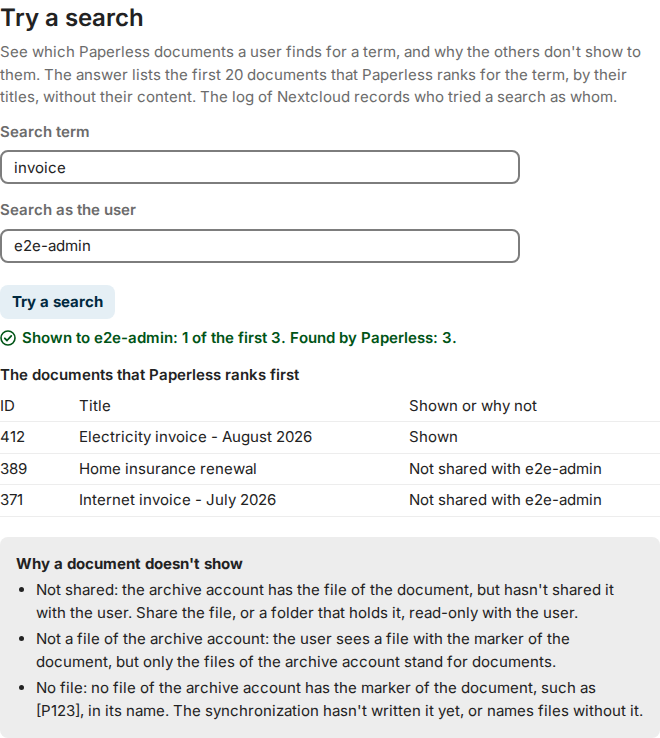
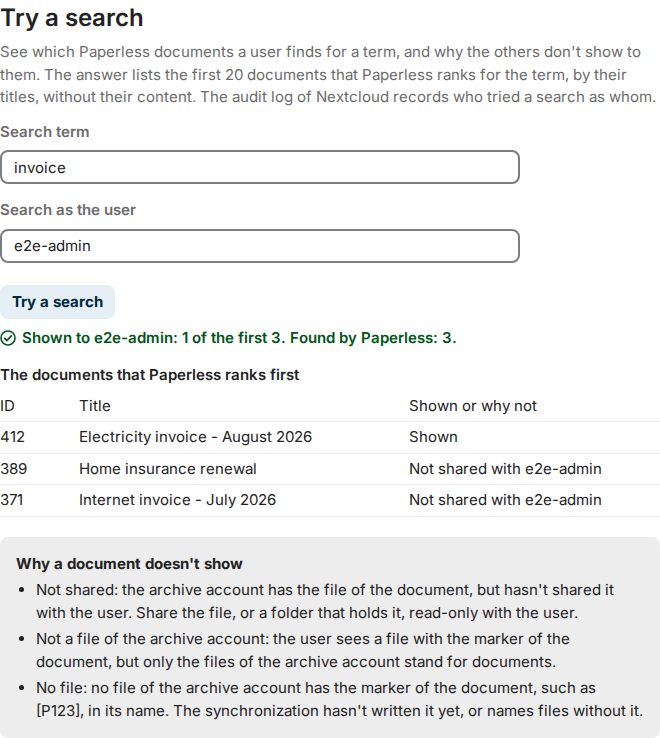
fix(settings): record Try a search in the audit log and finish its docs
The entry at level info is missing on a default installation (log level 2),
so the controller also dispatches CriticalActionPerformedEvent, which the app
admin_audit writes to the audit log whatever the log level. The hint, the
changelog fragment, README, security.md and architecture.md now say so.

Also: the roadmap no longer lists Try a search as planned, the e2e README and
the summary of run.sh describe its checks, and the screenshot has a dark version.

Changed region(s): [[0.3333, 0.1247, 1.0, 0.1558]]

diff --git a/l10n/de_DE.js b/l10n/de_DE.js
@@ -95,7 +95,7 @@ OC.L10N.register(
 		'No archive account exists, so the search shows no Paperless documents. Name the account that owns the synchronized files above.': 'Es gibt kein Archiv-Konto, daher zeigt die Suche keine Paperless-Dokumente. Geben Sie oben das Konto an, dem die synchronisierten Dateien gehören.',
 		'Paperless can\'t read this term in its advanced syntax, such as a range of dates that isn\'t complete like created:[2026 to. Correct the term and try again.': 'Paperless kann diesen Begriff in seiner erweiterten Syntax nicht lesen, etwa einen unvollständigen Datumsbereich wie created:[2026 to. Korrigieren Sie den Begriff und versuchen Sie es noch einmal.',
 		'Try a search': 'Suche ausprobieren',
-		'See which Paperless documents a user finds for a term, and why the others don\'t show to them. The answer lists the first %s documents that Paperless ranks for the term, by their titles, without their content. The log of Nextcloud records who tried a search as whom.': 'Sehen Sie nach, welche Paperless-Dokumente ein Benutzer zu einem Begriff findet und warum ihm die anderen nicht angezeigt werden. Die Antwort nennt die ersten %s Dokumente, die Paperless für den Begriff einordnet, mit ihren Titeln und ohne ihren Inhalt. Das Protokoll von Nextcloud hält fest, welcher Administrator als welcher Benutzer gesucht hat.',
+		'See which Paperless documents a user finds for a term, and why the others don\'t show to them. The answer lists the first %s documents that Paperless ranks for the term, by their titles, without their content. The audit log of Nextcloud records who tried a search as whom.': 'Sehen Sie nach, welche Paperless-Dokumente ein Benutzer zu einem Begriff findet und warum ihm die anderen nicht angezeigt werden. Die Antwort nennt die ersten %s Dokumente, die Paperless für den Begriff einordnet, mit ihren Titeln und ohne ihren Inhalt. Das Audit-Protokoll von Nextcloud hält fest, welcher Administrator als welcher Benutzer gesucht hat.',
 		'Search term': 'Suchbegriff',
 		'Search as the user': 'Suchen als Benutzer',
 		'User ID': 'Benutzer-ID',

diff --git a/l10n/de.js b/l10n/de.js
@@ -95,7 +95,7 @@ OC.L10N.register(
 		'No archive account exists, so the search shows no Paperless documents. Name the account that owns the synchronized files above.': 'Es gibt kein Archiv-Konto, daher zeigt die Suche keine Paperless-Dokumente. Gib oben das Konto an, dem die synchronisierten Dateien gehören.',
 		'Paperless can\'t read this term in its advanced syntax, such as a range of dates that isn\'t complete like created:[2026 to. Correct the term and try again.': 'Paperless kann diesen Begriff in seiner erweiterten Syntax nicht lesen, etwa einen unvollständigen Datumsbereich wie created:[2026 to. Korrigiere den Begriff und versuche es noch einmal.',
 		'Try a search': 'Suche ausprobieren',
-		'See which Paperless documents a user finds for a term, and why the others don\'t show to them. The answer lists the first %s documents that Paperless ranks for the term, by their titles, without their content. The log of Nextcloud records who tried a search as whom.': 'Sieh nach, welche Paperless-Dokumente ein Benutzer zu einem Begriff findet und warum ihm die anderen nicht angezeigt werden. Die Antwort nennt die ersten %s Dokumente, die Paperless für den Begriff einordnet, mit ihren Titeln und ohne ihren Inhalt. Das Protokoll von Nextcloud hält fest, welcher Administrator als welcher Benutzer gesucht hat.',
+		'See which Paperless documents a user finds for a term, and why the others don\'t show to them. The answer lists the first %s documents that Paperless ranks for the term, by their titles, without their content. The audit log of Nextcloud records who tried a search as whom.': 'Sieh nach, welche Paperless-Dokumente ein Benutzer zu einem Begriff findet und warum ihm die anderen nicht angezeigt werden. Die Antwort nennt die ersten %s Dokumente, die Paperless für den Begriff einordnet, mit ihren Titeln und ohne ihren Inhalt. Das Audit-Protokoll von Nextcloud hält fest, welcher Administrator als welcher Benutzer gesucht hat.',
 		'Search term': 'Suchbegriff',
 		'Search as the user': 'Suchen als Benutzer',
 		'User ID': 'Benutzer-ID',

diff --git a/tests/Unit/Controller/TrySearchTest.php b/tests/Unit/Controller/TrySearchTest.php
@@ -18,11 +18,13 @@ use OCA\PaperlessUnifiedSearch\Tests\Unit\AppServices;
 use OCA\PaperlessUnifiedSearch\Tests\Unit\Files;
 use OCP\AppFramework\Http;
 use OCP\AppFramework\Http\JSONResponse;
+use OCP\EventDispatcher\IEventDispatcher;
 use OCP\Files\File;
 use OCP\Http\Client\IResponse;
 use OCP\IL10N;
 use OCP\IRequest;
 use OCP\IUserSession;
+use OCP\Log\Audit\CriticalActionPerformedEvent;
 use PHPUnit\Framework\Attributes\DataProvider;
 use PHPUnit\Framework\TestCase;
 use Psr\Log\LoggerInterface;
@@ -50,6 +52,9 @@ final class TrySearchTest extends TestCase {
 		['id' => 371, 'title' => 'Internet invoice'] + self::CONTENT,
 		['id' => 360, 'title' => ' Letter '] + self::CONTENT,
 	];
+
+	/** The event dispatcher of the controller, a stub unless a test expects an event. */
+	private ?IEventDispatcher $events = null;
 
 	protected function setUp(): void {
 		$this->connected();
@@ -136,6 +141,30 @@ final class TrySearchTest extends TestCase {
 			->with('{admin} tried a search of Paperless as {user} in the settings', ['app' => AppConstants::APP_ID, 'admin' => 'alex', 'user' => 'jamie']);
 
 		$this->controller($this->documents(self::HITS, 12), $logger)->trySearch('invoice', 'JAMIE');
+	}
+
+	/**
+	 * The app admin_audit writes the event to the audit log whatever the log level, where
+	 * the entry at level info is missing on a default installation.
+	 */
+	public function testTellsTheAuditLogWhoTriedASearchAsWhomWithoutTheTerm(): void {
+		$events = $this->createMock(IEventDispatcher::class);
+		$events->expects(self::once())
+			->method('dispatchTyped')
+			->with(self::callback(static fn (CriticalActionPerformedEvent $event): bool => $event->getLogMessage() === 'Paperless Unified Search: %s tried a search as %s'
+				&& $event->getParameters() === ['admin' => 'alex', 'user' => 'jamie']
+				&& !$event->getObfuscateParameters()));
+		$this->events = $events;
+
+		$this->controller($this->documents(self::HITS, 12))->trySearch('invoice', 'JAMIE');
+	}
+
+	public function testTellsTheAuditLogNothingOfARefusedTry(): void {
+		$events = $this->createMock(IEventDispatcher::class);
+		$events->expects(self::never())->method('dispatchTyped');
+		$this->events = $events;
+
+		$this->controller($this->documents(self::HITS, 12))->trySearch('invoice', 'nobody');
 	}
 
 	public function testLogsAnAdministratorWithoutASession(): void {
@@ -255,6 +284,7 @@ final class TrySearchTest extends TestCase {
 			new SearchExplainer($locator, $accounts),
 			$accounts,
 			$session,
+			$this->events ?? $this->createStub(IEventDispatcher::class),
 		);
 	}
 

diff --git a/lib/Controller/SettingsController.php b/lib/Controller/SettingsController.php
@@ -24,10 +24,12 @@ use OCP\AppFramework\Http;
 use OCP\AppFramework\Http\Attribute\FrontpageRoute;
 use OCP\AppFramework\Http\Attribute\PasswordConfirmationRequired;
 use OCP\AppFramework\Http\JSONResponse;
+use OCP\EventDispatcher\IEventDispatcher;
 use OCP\IL10N;
 use OCP\IRequest;
 use OCP\IUserManager;
 use OCP\IUserSession;
+use OCP\Log\Audit\CriticalActionPerformedEvent;
 use Psr\Log\LoggerInterface;
 use SensitiveParameter;
 use Throwable;
@@ -63,6 +65,7 @@ final class SettingsController extends Controller {
 		private SearchExplainer $explainer,
 		private IUserManager $userManager,
 		private IUserSession $userSession,
+		private IEventDispatcher $events,
 	) {
 		parent::__construct($appName, $request);
 	}
@@ -137,7 +140,7 @@ final class SettingsController extends Controller {
 	 * whether it shows to the user and, if not, why, as occ paperless_unified_search:search
 	 * --explain finds it, for administrators without a shell. The answer names each
 	 * document by its ID and its title alone, without its content, an excerpt or its file,
-	 * and the log records which administrator tried a search as whom, without the term.
+	 * and the log and the audit log record which administrator tried a search as whom, without the term.
 	 */
 	#[FrontpageRoute(verb: 'POST', url: '/settings/try')]
 	public function trySearch(string $term = '', string $user = ''): JSONResponse {
@@ -161,11 +164,17 @@ final class SettingsController extends Controller {
 			return $this->refusal($this->l10n->t('No archive account exists, so the search shows no Paperless documents. Name the account that owns the synchronized files above.'), 'no_archive_account');
 		}
 
+		$admin = $this->userSession->getUser()?->getUID() ?? '';
 		$this->logger->info('{admin} tried a search of Paperless as {user} in the settings', [
 			'app' => AppConstants::APP_ID,
-			'admin' => $this->userSession->getUser()?->getUID() ?? '',
+			'admin' => $admin,
 			'user' => $account->getUID(),
 		]);
+		// The audit log of the app admin_audit records it whatever the log level.
+		$this->events->dispatchTyped(new CriticalActionPerformedEvent(
+			'Paperless Unified Search: %s tried a search as %s',
+			['admin' => $admin, 'user' => $account->getUID()],
+		));
 		try {
 			$response = $this->paperlessApi->searchDocuments($term, 1, self::TRY_LIMIT);
 		} catch (PaperlessQueryRejected) {

diff --git a/tests/Unit/Templates/SettingsTemplateTest.php b/tests/Unit/Templates/SettingsTemplateTest.php
@@ -130,7 +130,7 @@ final class SettingsTemplateTest extends TestCase {
 
 	/**
 	 * Try a search sits at the end of the page, with its route, a field for the term and
-	 * one for the user, and says that the log records who tried a search as whom.
+	 * one for the user, and says that the audit log records who tried a search as whom.
 	 */
 	public function testTrySearchAsksForATermAndAUser(): void {
 		[, $page] = $this->render(new PublicConfig(self::STORED, true, false));
@@ -142,7 +142,7 @@ final class SettingsTemplateTest extends TestCase {
 			self::assertTrue($input->hasAttribute('required'), "The {$field} of Try a search is not required.");
 		}
 		self::assertStringContainsString('The answer lists the first 20 documents', $this->text($this->element($page, 'paperless-unified-search-try-hint')));
-		self::assertStringContainsString('The log of Nextcloud records who tried a search as whom.', $this->text($this->element($page, 'paperless-unified-search-try-hint')));
+		self::assertStringContainsString('The audit log of Nextcloud records who tried a search as whom.', $this->text($this->element($page, 'paperless-unified-search-try-hint')));
 		self::assertSame('', $this->text($this->element($page, 'paperless-unified-search-try-result')));
 		self::assertSame('status', $this->element($page, 'paperless-unified-search-try-status')->getAttribute('role'));
 	}

diff --git a/templates/settings.php b/templates/settings.php
@@ -217,7 +217,7 @@ $archiveAccount = $config->archiveOwner !== '' ? $config->archiveOwner : $config
 	<div class="paperless-unified-search-try">
 		<h3><?php p($l->t('Try a search')); ?></h3>
 		<p id="paperless-unified-search-try-hint" class="settings-hint">
-			<?php p($l->t('See which Paperless documents a user finds for a term, and why the others don\'t show to them. The answer lists the first %s documents that Paperless ranks for the term, by their titles, without their content. The log of Nextcloud records who tried a search as whom.', [(string)\OCA\PaperlessUnifiedSearch\Controller\SettingsController::TRY_LIMIT])); ?>
+			<?php p($l->t('See which Paperless documents a user finds for a term, and why the others don\'t show to them. The answer lists the first %s documents that Paperless ranks for the term, by their titles, without their content. The audit log of Nextcloud records who tried a search as whom.', [(string)\OCA\PaperlessUnifiedSearch\Controller\SettingsController::TRY_LIMIT])); ?>
 		</p>
 		<form id="paperless-unified-search-try-form">
 			<p>

diff --git a/tests/Unit/Controller/SettingsControllerTest.php b/tests/Unit/Controller/SettingsControllerTest.php
@@ -25,6 +25,7 @@ use OCA\PaperlessUnifiedSearch\Tests\Unit\MemoryAppConfig;
 use OCP\App\IAppManager;
 use OCP\AppFramework\Http;
 use OCP\AppFramework\Utility\ITimeFactory;
+use OCP\EventDispatcher\IEventDispatcher;
 use OCP\Files\IRootFolder;
 use OCP\Http\Client\IClient;
 use OCP\Http\Client\IClientService;
@@ -636,6 +637,7 @@ final class SettingsControllerTest extends TestCase {
 			new SearchExplainer(new NextcloudFileLocator($this->createStub(IRootFolder::class), $this->createStub(LoggerInterface::class)), $accounts),
 			$accounts,
 			$this->createStub(IUserSession::class),
+			$this->createStub(IEventDispatcher::class),
 		);
 	}
 

diff --git a/docs/security.md b/docs/security.md
@@ -22,7 +22,7 @@ What Paperless Unified Search protects, what it trusts and which risks remain. [
 - The app asks Paperless only for the fields that a result shows: the ID, the title, the date, the correspondent and the type of a document, and the excerpt around the term, and for the names of the correspondents and the types of the documents that the user can open. The whole OCR text, the notes and the permissions of the documents never reach Nextcloud.
 - Nextcloud's distributed cache keeps the names of correspondents and types for ten minutes, by the server and the ID, for all users, as they come with the token of the app; a result shows a name only for a document whose file the user can open.
 - Requests to Paperless go through Nextcloud's HTTP client, which checks TLS certificates.
-- *Try a search* in the settings shows an administrator which Paperless documents a user finds for a term and why the others don't show to them, by their IDs and titles alone: no content, no excerpt, no file and no account that owns one. Like every route of the settings, only administrators can call it, and the log of Nextcloud records at level info which administrator tried a search as which user, without the term.
+- *Try a search* in the settings shows an administrator which Paperless documents a user finds for a term and why the others don't show to them, by their IDs and titles alone: no content, no excerpt, no file and no account that owns one. Like every route of the settings, only administrators can call it, and the audit log of the app *Auditing / Logging* (`admin_audit`) records which administrator tried a search as which user, whatever the log level, as does the log of Nextcloud at level info, without the term.
 - A failed search is logged with the kind of error only, without the term, the URL or the token. The history of the administration settings shows it with its message as well, as it shows a request that only its second try answered; the message loses the token, the term in any case, also of letters beyond ASCII such as `Ä` and `ä`, and the query of every URL first.
 - What a user types can't fill the history of the problems of the search: a query or a page that Paperless refuses, as one still being typed, finds nothing and writes nothing, and the problems of one kind write the history at most once in 30 seconds ([decision 0006](decisions/0006-retry-only-before-a-connection.md)).
 
@@ -54,7 +54,7 @@ What Paperless Unified Search protects, what it trusts and which risks remain. [
 | --- | --- | --- |
 | Another site uses the session of an administrator | Nextcloud checks the CSRF token of every request; no route of the app opts out of it or of the check of the administrator | `testNoSettingsActionOptsOutOfTheChecksOfNextcloud` in `tests/Unit/Controller/SettingsControllerRoutesTest.php` |
 | A route loses the check of the administrator or of the CSRF token | A test fails as soon as the controller or a route of it opts out of a check of Nextcloud, by an attribute such as `NoAdminRequired`, `PublicPage` or `NoCSRFRequired` or by an annotation; the end-to-end tests send every request of the settings as a user who isn't an administrator and without a login, and expect 403 and 401 with the settings unchanged | `testNoSettingsActionOptsOutOfTheChecksOfNextcloud`, `testEveryActionOfTheControllerIsARouteOfThisTest`, `tests/e2e/run.sh` |
-| An administrator, or whoever takes over their session, learns more of the documents of a user than *Try a search* should show | Only administrators can call the route, which passes the CSRF check; its answer names each document by its ID, its title and its verdict alone, never its content, an excerpt, the path of a file or the account that owns one; the log records at level info which administrator tried a search as which user, without the term | `testTheAnswerHoldsTheIdsAndTitlesOnly` and `testLogsWhoTriedASearchAsWhomWithoutTheTerm` in `tests/Unit/Controller/TrySearchTest.php`, `testNoSettingsActionOptsOutOfTheChecksOfNextcloud`, and the end-to-end tests, which expect 403 for a user who isn't an administrator and 401 without a login, and an answer of IDs, titles and verdicts alone |
+| An administrator, or whoever takes over their session, learns more of the documents of a user than *Try a search* should show | Only administrators can call the route, which passes the CSRF check; its answer names each document by its ID, its title and its verdict alone, never its content, an excerpt, the path of a file or the account that owns one; the audit log of `admin_audit`, whatever the log level, and the log of Nextcloud at level info record which administrator tried a search as which user, without the term | `testTheAnswerHoldsTheIdsAndTitlesOnly`, `testLogsWhoTriedASearchAsWhomWithoutTheTerm` and `testTellsTheAuditLogWhoTriedASearchAsWhomWithoutTheTerm` in `tests/Unit/Controller/TrySearchTest.php`, `testNoSettingsActionOptsOutOfTheChecksOfNextcloud`, and the end-to-end tests, which expect 403 for a user who isn't an administrator and 401 without a login, and an answer of IDs, titles and verdicts alone |
 | An administrator session points the URL at another server to collect the token | A blank token keeps the stored one only for the same scheme, host and port; for another server, saving stops before any request leaves Nextcloud and asks for the token. Saving asks for the password when it wasn't confirmed in the last 30 minutes | `testABlankTokenNeverSendsTheStoredOneToAnotherServer` in `tests/Unit/Service/ConfigServiceTest.php`, `testSaveWithoutATokenNeverSendsTheStoredOneToAnotherServer` in `tests/Unit/Controller/SettingsControllerTest.php`, `testChangingTheConnectionAsksForThePassword`, and the refused save of the end-to-end tests, which no request of the mock follows |
 | An administrator session points the app at a service inside the network (server-side request forgery) | Nextcloud refuses addresses of the local network to every request unless *Paperless runs in my local network* is selected, and then only to the requests of this app to the Paperless URL of the settings, which follow no redirect; `allow_local_remote_servers` stays off. The stored token goes only to the server it was saved for, so a host inside the network receives it only when it is entered again, and saving asks for the password | `testSaveAllowsTheLocalNetworkForThisPaperlessOnlyWhenAsked` and `testSaveNamesTheSwitchWhenNextcloudRefusesALocalAddress` in `tests/Unit/Controller/SettingsControllerTest.php`, `testSearchAllowsTheLocalNetworkAsTheSettingsSay`, and the end-to-end tests, which run without `allow_local_remote_servers` and expect a save without the switch to fail before any request reaches the mock |
 | A token that can't be decrypted takes down the settings or the search | The token counts as none, one warning without it goes to the log, and the settings ask for it again | `testATokenThatCannotBeDecryptedCountsAsNoneAndIsLoggedOnce`, `testTheFormAsksForTheTokenAgainWhenTheStoredOneCannotBeDecrypted`, `testAStoredTokenThatCannotBeDecryptedShowsNoDocumentsInsteadOfFailing` |
@@ -76,7 +76,7 @@ The Docker end-to-end tests run the real search endpoint of every supported Next
 ## Residual risks
 
 - A link of the smart picker carries the ID of the file in Nextcloud. A reader who can't open the file sees that number, but neither its name nor its content.
-- An administrator can learn with *Try a search* which document titles a user can see, for any term and any user. The answer holds the titles alone, and the log names the administrator and the user; an administrator of Nextcloud can see far more anyway, for example by signing in as the user. A hoster who doesn't want this should not make the operators of an instance its administrators.
+- An administrator can learn with *Try a search* which document titles a user can see, for any term and any user. The answer holds the titles alone, and the audit log names the administrator and the user, if the app *Auditing / Logging* is enabled (otherwise only the log of Nextcloud does, at level info or lower); an administrator of Nextcloud can see far more anyway, for example by signing in as the user. A hoster who doesn't want this should not make the operators of an instance its administrators.
 - The marker `[P<ID>]` ties a file of the archive account to a document. Whoever may write into a folder of the archive account, for example through a share with write permission, can give a file of that account the marker of any document and see its title and excerpt. Share the archive read-only.
 - The permissions of the Paperless account decide which documents the search can find. Use a dedicated account with only the read permissions that the search needs, as the [README](https://github.com/Dennis-Otto/paperless-unified-search#configuration) describes.
 - With *Always include Paperless in global search* on, every search term of every user reaches Paperless. Turn it on only for a Paperless server that you trust as much as Nextcloud.

diff --git a/tests/e2e/README.md b/tests/e2e/README.md
@@ -13,7 +13,7 @@ Each result of `mobiletest` shows what the document is, and the suite checks it 
 
 Besides the search, the suite checks the smart picker: it lists *Paperless documents* with the search provider and the icon of the app, and Nextcloud renders the link of a result as the file for the archive account and for a user the file was shared with, and as the bare link, without the name of the file, for a user who can't open it. It checks the guarantees of the settings as well: every route of the settings answers a user who isn't an administrator with HTTP 403 and a request without a login with 401, and leaves the settings as they are; a save with a blank token for another server answers 400 and sends that server nothing, which the log of the mock shows, as it answers as `other-host` too; a save with a token that the mock refuses answers 400 with the code `unauthorized` and a message in the language of the administrator, German, and leaves the settings as they are; the settings page speaks German to an administrator set to `de` and formal German to one set to `de_DE`, *Deutsch (Förmlich: Sie)*; an archive account typed in another case is stored as Nextcloud spells it; and the answer of a save names the version of Paperless that the test of the connection found.
 
-The suite sets the app up through occ, as an administrator's script does: `occ paperless_unified_search:setup` gets the token from its standard input, saves the settings once the mock answers, and says so without the token, and `occ paperless_unified_search:test` exits with 0. The settings route is then tested for what only it does, such as the refusals for users who aren't administrators. Before and after the archive account shares the file of document 123 with `e2e-other`, `occ paperless_unified_search:search e2e-other mobiletest --explain --json` names its verdict, *not shared* and then *shown*, and *no file* for document 999, which `assert_occ.py` checks. `occ paperless_unified_search:check` then counts 1 of the 2 documents of the mock with a file, from the field `all` that the mock adds to every list as Paperless-ngx does, and once the archive account no longer exists, `occ setupchecks` shows the warning of the app with its link to the settings.
+The suite sets the app up through occ, as an administrator's script does: `occ paperless_unified_search:setup` gets the token from its standard input, saves the settings once the mock answers, and says so without the token, and `occ paperless_unified_search:test` exits with 0. The settings route is then tested for what only it does, such as the refusals for users who aren't administrators. Before and after the archive account shares the file of document 123 with `e2e-other`, `occ paperless_unified_search:search e2e-other mobiletest --explain --json` names its verdict, *not shared* and then *shown*, and *no file* for document 999, which `assert_occ.py` checks. *Try a search* of the settings page, `POST /settings/try`, gives an administrator the same verdicts for `e2e-other` before and after the share, which the mode `try` of `assert_occ.py` checks, and fails the suite when its answer holds anything beyond the ID, the title and the verdict of each document; it answers an account that doesn't exist with HTTP 400 and the code `unknown_user`, a user who isn't an administrator with 403 and a request without a login with 401. `occ paperless_unified_search:check` then counts 1 of the 2 documents of the mock with a file, from the field `all` that the mock adds to every list as Paperless-ngx does, and once the archive account no longer exists, `occ setupchecks` shows the warning of the app with its link to the settings.
 
 The suite makes the search fail, too, and checks the history of its problems that the administration settings show under *Search problems*, which Nextcloud keeps in its configuration of the apps. Before that, a search for `mobiletest created:[2026 to`, which the mock refuses in the advanced syntax, shows the document of its word from the simple mode, and a search for `pagetest` from a cursor past its last page finds nothing; neither may count in the history, which then holds only the two problems that follow. A search for `e2e-error` shows no documents and goes into the history as a failed search, with the message *Paperless returned HTTP 500.*; a search for `e2e-drop` shows its document from the second try of the request, which goes into the history as well, with the message of the HTTP client, and shows that searches work again. `assert_history.py` reads the page that Nextcloud renders: neither term appears on it, nor the token, nor the query of the URL that the message of the HTTP client repeats. The browser then clears the history with *Clear history*, after which the page says *No problem recorded.*.
 
@@ -82,7 +82,7 @@ The browser runs in the image of Playwright that `run.sh` names, inside the netw
 
 ## The messages of the settings page
 
-Last, `settings.mjs` checks what the settings page says and does when an answer isn't the one that it asked for, and *Disconnect*, which the other checks leave alone. It runs last, as it disconnects Paperless, and saves the settings again as `run.sh` expects them afterwards:
+Last, `settings.mjs` checks what the settings page says and does when an answer isn't the one that it asked for, and *Disconnect*, which the other checks leave alone. It runs last, as it disconnects Paperless, and saves the settings again as `run.sh` expects them afterwards. First it tries a search for `mobiletest` as `e2e-user` with *Try a search* and expects document 123 shown and 999 without a file, with their titles as text. Then:
 
 1. A save answered with the HTML page of maintenance mode, the page of a proxy whose Nextcloud doesn't answer (HTTP 504), an expired session (401), a request token that Nextcloud no longer accepts (412) and a network failure each shows one short sentence in the colour of an error, and the settings stay as they are. Playwright gives these answers, which Nextcloud itself would give only during an upgrade or after the session ended.
 2. *Disconnect*, declined in the dialog of the browser, sends nothing and changes nothing; confirmed, it empties the form and the history, turns itself off, and Nextcloud renders the page of a fresh install.
@@ -106,7 +106,7 @@ The search looks different in each supported version, and `flow.mjs` finds every
 
 ## Screenshots
 
-`scripts/screenshots.sh` takes the screenshots and the animation in `screenshots/` with the containers of this suite: Nextcloud and the mock under the Compose project `paperless_unified_search_screenshots`, on port `18083`, and `screenshots.mjs` in the image of Playwright. It writes the synthetic documents of the demo as PDF files into the archive account `paperless`, in folders as Paperless Sync names them, and shares them read-only with `jamie`. For the term `invoice`, the mock returns three of them, with the IDs of their files. `pngjs` and `gifenc` in `package.json` read the screenshots and write the animation, and `ui.mjs` gives the steps through the search that `flow.mjs` checks in every run of the suite.
+`scripts/screenshots.sh` takes the screenshots and the animation in `screenshots/` with the containers of this suite: Nextcloud and the mock under the Compose project `paperless_unified_search_screenshots`, on port `18083`, and `screenshots.mjs` in the image of Playwright. It writes the synthetic documents of the demo as PDF files into the archive account `paperless`, in folders as Paperless Sync names them, and shares them read-only with `jamie`. For the term `invoice`, the mock returns three of them, with the IDs of their files. *Try a search* searches for `invoice` as `e2e-admin`, with whom the archive account has shared only the file of the electricity invoice, for `10-try-a-search.png` and its dark version. `pngjs` and `gifenc` in `package.json` read the screenshots and write the animation, and `ui.mjs` gives the steps through the search that `flow.mjs` checks in every run of the suite.
 
 ## The coming Nextcloud
 

diff --git a/README.md b/README.md
@@ -159,9 +159,10 @@ On a phone, the settings fit the screen, and each problem of the search is a car
 
 ### Try a search
 
-<p>
-  <img alt="Try a search in the settings: the administrator searches for invoice as e2e-admin, and a table lists the three documents that Paperless ranks first with their IDs and titles, the electricity invoice shown, the insurance renewal and the internet invoice not shared with e2e-admin, above the reasons why a document does not show" src="https://github.com/Dennis-Otto/paperless-unified-search/raw/main/screenshots/10-try-a-search.png">
-</p>
+<picture>
+  <source media="(prefers-color-scheme: dark)" srcset="https://github.com/Dennis-Otto/paperless-unified-search/raw/main/screenshots/10-try-a-search-dark.png">
+  <img alt="Try a search in the settings: the administrator searches for invoice as the account e2e-admin, and a table lists the three documents that Paperless ranks first with their IDs and titles, the electricity invoice shown, the insurance renewal and the internet invoice not shared with that account, above the reasons why a document does not show" src="https://github.com/Dennis-Otto/paperless-unified-search/raw/main/screenshots/10-try-a-search.png">
+</picture>
 
 *Try a search* at the end of the settings answers the most common question, "why don't I see this document?", without a shell: it searches Paperless as a user and names for each document whether it shows to them, and if not, why.
 
@@ -515,7 +516,7 @@ Documents without a file are no failure, as long as the search can show others: 
 - Nextcloud's protection against addresses of the local network stays on for every app. **Paperless runs in my local network** lifts it only for the requests of this app to the Paperless URL of the settings, which follow no redirect.
 - Search results are filtered through the current user's Nextcloud filesystem view.
 - The settings show administrators the history of the problems of the search without the API token, the search term or the query of any URL.
-- **Try a search** shows administrators which documents a user finds for a term, by their IDs and titles alone, without their content, an excerpt or their files; the log of Nextcloud records at level info which administrator tried a search as which user, without the term.
+- **Try a search** shows administrators which documents a user finds for a term, by their IDs and titles alone, without their content, an excerpt or their files; the audit log of the app *Auditing / Logging* (`admin_audit`) records which administrator tried a search as which user, whatever the log level, and so does the log of Nextcloud at level info, without the term.
 - Search terms are sent server-to-server only when connected-services search or trusted-service mode is enabled, after the user chose **Paperless documents** in the smart picker, or when a client asks this search by its ID through the API.
 - A link that the smart picker inserts is the link of the file in Nextcloud, which shows its preview only to readers who can open the file.
 - Administrators can explicitly trust the configured Paperless server to include it automatically in every user's global searches.
@@ -595,7 +596,7 @@ The screenshots and the animation in `screenshots/` come from a script, so that 
 bash scripts/screenshots.sh
 ```
 
-It starts the Docker suite under a project of its own with a demo: the archive account `paperless`, whose synthetic documents are shared read-only with `jamie`, and a Paperless mock that finds three of them for "invoice". Chromium then searches, opens a result, links a document from the smart picker in a note of Text and saves the settings, light and dark, on a phone and as an animation. Set `KEEP_SCREENSHOTS=1` to look around in the demo afterwards.
+It starts the Docker suite under a project of its own with a demo: the archive account `paperless`, whose synthetic documents are shared read-only with `jamie`, and a Paperless mock that finds three of them for "invoice". Chromium then searches, opens a result, links a document from the smart picker in a note of Text, saves the settings and tries a search in them, light and dark, on a phone and as an animation. Set `KEEP_SCREENSHOTS=1` to look around in the demo afterwards.
 
 See [CONTRIBUTING.md](https://github.com/Dennis-Otto/paperless-unified-search/blob/main/CONTRIBUTING.md) before opening a pull request.
 

diff --git a/docs/roadmap.md b/docs/roadmap.md
@@ -1,5 +1,5 @@
 ---
-description: "What Paperless Unified Search intends to do until October 2027, such as the date filter of the search, a dashboard widget and help for administrators, and what it will not do."
+description: "What Paperless Unified Search intends to do until October 2027, such as the date filter of the search, and a dashboard widget, and what it will not do."
 ---
 
 # Roadmap
@@ -10,11 +10,10 @@ What Paperless Unified Search intends to do in the next twelve months, until Oct
 
 ## The next twelve months
 
-The app does what it was built for: the full-text search of Paperless-ngx in the search of Nextcloud, with results that show the preview, the date, the correspondent and the type of each document and open the synchronized files, and in the smart picker of Talk, Text, Deck and Mail, which inserts the link to such a file. The year builds on that, with these features planned:
+The app does what it was built for: the full-text search of Paperless-ngx in the search of Nextcloud, with results that show the preview, the date, the correspondent and the type of each document and open the synchronized files, and in the smart picker of Talk, Text, Deck and Mail, which inserts the link to such a file, and for administrators **Try a search** in the settings, which shows why a document is hidden from a user. The year builds on that, with these features planned:
 
 - **Nextcloud's date filter.** The filter of Nextcloud's search by date narrows the Paperless results as well.
 - **A dashboard widget.** The latest Paperless documents that the user can open, on Nextcloud's dashboard.
-- **Help for administrators.** **Try a search** in the settings, which shows why a document is hidden from a user, as [`occ paperless_unified_search:search --explain`](guide.md#explain-a-hidden-document) does on the command line.
 - **A demo in one command.** Real Paperless-ngx and Nextcloud with sample documents, to try the app before installing it.
 - **Documentation for everyone.** Pages on installation, configuration and troubleshooting with a FAQ, and the README and the website in German.
 

diff --git a/docs/architecture.md b/docs/architecture.md
@@ -172,7 +172,7 @@ Four commands of `occ` and a setup check serve the administrators who script the
   <img src="images/diagrams/why-a-document-does-not-show.svg" alt="Why a document does not show: Paperless finds document 389 when jamie searches, and occ paperless_unified_search:search jamie invoice --explain asks three questions in turn. Does jamie see a file of the archive account with [P389] in its name? Then the document shows. Otherwise, does the archive account have such a file in its own folders? Then it is not shared with jamie, and sharing the file or its folder read-only with jamie shows it. Otherwise, does jamie see a file with the marker of another account? Then it is not owned, since only files of the archive account stand for documents. Otherwise there is no file, and the synchronization has yet to write one with the marker in its name.">
 </picture>
 
-*Try a search* of the settings page asks the same questions for the first 20 documents, through the route `POST /settings/try`, for administrators without a shell. Its answer carries the ID, the title and the verdict of each document and nothing more, neither the path nor the owner of a file, and the log records which administrator tried a search as which user.
+*Try a search* of the settings page asks the same questions for the first 20 documents, through the route `POST /settings/try`, for administrators without a shell. Its answer carries the ID, the title and the verdict of each document and nothing more, neither the path nor the owner of a file, and the audit log of the app *Auditing / Logging* (`admin_audit`) records which administrator tried a search as which user, whatever the log level, as does the log of Nextcloud at level info.
 
 The search itself never runs these questions: it keeps its one search of the file cache per page of Paperless, and the explainer's lookups exist only for occ and *Try a search*.
 
